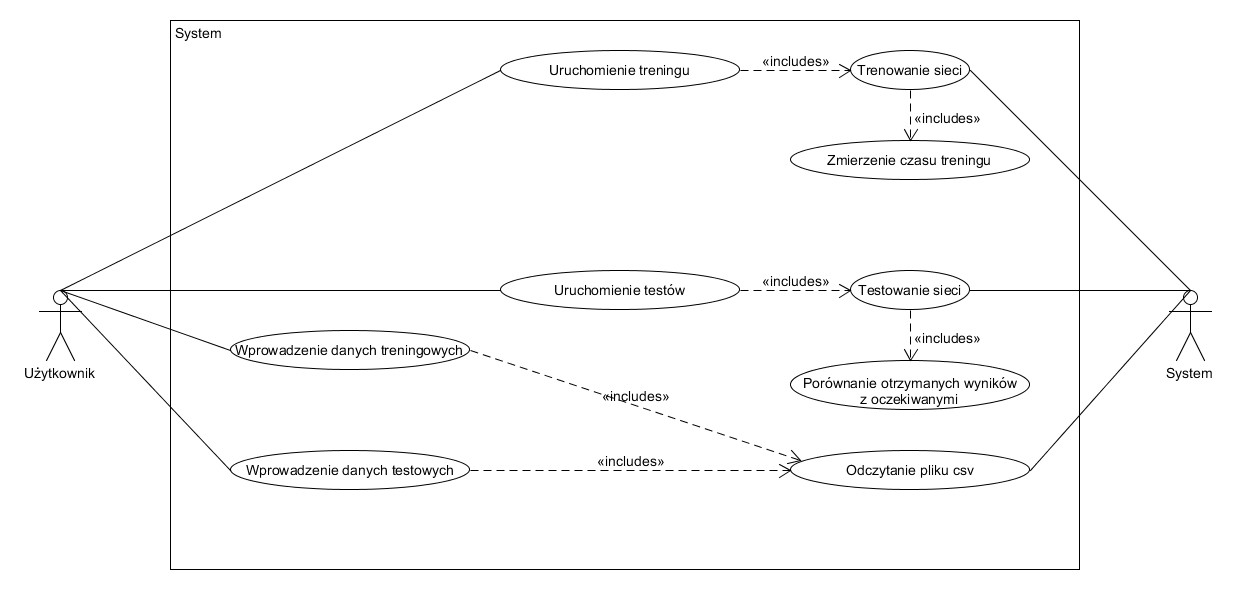
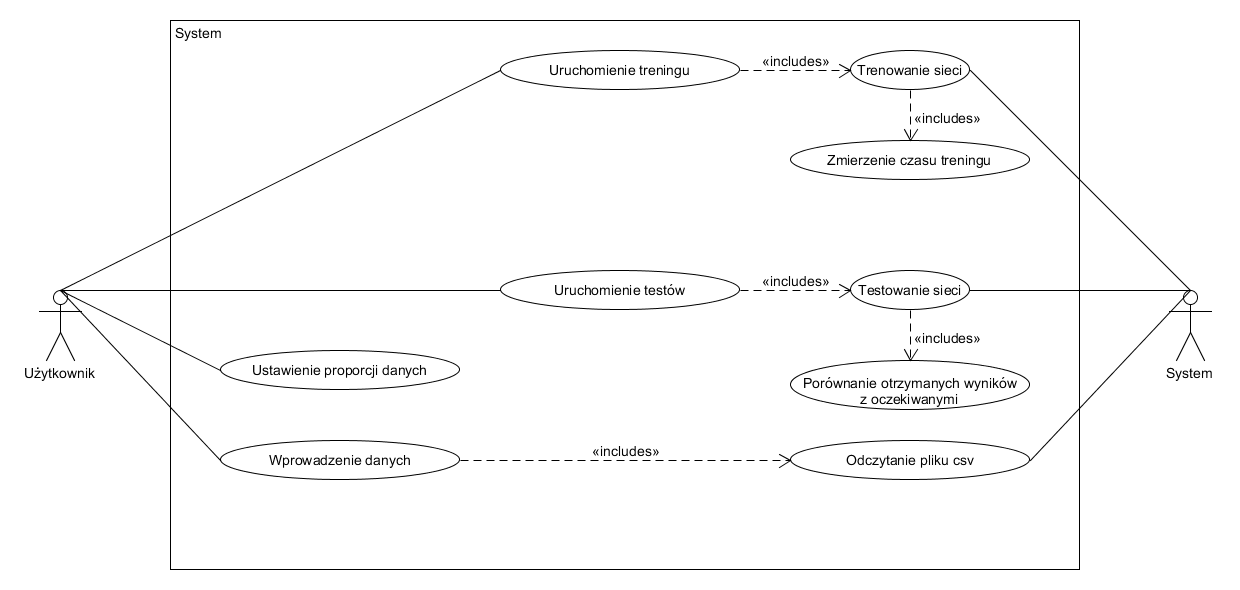
wymagania, use case

diff --git a/analiza.tex b/analiza.tex
@@ -1,6 +1,6 @@
 \documentclass{article}
 \usepackage[hidelinks]{hyperref}
-
+\usepackage{graphicx}
 \usepackage{polski}
 \usepackage[utf8]{inputenc}
 \usepackage{indentfirst}
@@ -20,6 +20,7 @@ Wydział Matematyki i Nauk Informacyjnych Politechniki Warszawskiej
 \clearpage
 \noindent
 \begin{table}[H]
+\hspace*{-1cm}
 \begin{tabular}{|l|l|l|r|}
 \hline
 \textbf{Data} & \textbf{Autor} & \textbf{Opis zmian} & \textbf{Wersja} \\
@@ -46,13 +47,48 @@ Wydział Matematyki i Nauk Informacyjnych Politechniki Warszawskiej
 \item Analiza jakości klasyfikacji i  czasu trwania treningu
 \item Interfejs graficzny
 \end{itemize}
+Poniższy diagram UML przedstawia zbiór przypadków użycia aplikacji z punktu widzenia użytkownika i systemu. Dotyczy obu aplikacji.
+\begin{figure}[H]
+\hspace*{-2cm}
+\includegraphics[width=16cm]{use_case.png}
+\caption{Diagram przypadków użycia}
+\end{figure}
+\clearpage
+Poniższa tabela zawiera opisy przypadków użycia dla użytkownika oraz odpowiedzi systemu.
+
+\begin{table}[H]
+\caption{Opisy przypadków użycia}
+\begin{tabular}{|p{3.4cm}|p{5cm}|p{4cm}|}
+\hline
+\textbf{Nazwa} & \textbf{Opis} & \textbf{Odpowiedź systemu} \\
+\hline
+Wprowadzenie danych & Wprowadzenie danych używanych do uczenia sieci & Odczytanie pliku csv \\ \hline
+Ustawienie proporcji danych & Ustawienie proporcji danych treningowych, testowych i zatwierdzających & Zapisanie wyboru \\ \hline
+Uruchomienie treningu & Uruchomienie treningu sieci schematem ELM & Trenowanie sieci i zmierzenie czasu treningu \\ \hline
+Uruchomienie testów & Uruchomienie testów sieci wytrenowanej wcześniej schematem ELM & Testowanie sieci i porównanie otrzymanych wyników z oczekiwanymi \\
+\hline
+\end{tabular}
+\end{table}
 \subsection{Wymagania niefunkcjonalne}
-\begin{itemize}
-\item Działanie na komputerach wydziałowych
-\item Działanie o kilka rzędów wielkości szybsze od tradycyjnych metod uczenia
-\item Przejrzysty interfejs graficzny
-\item Czytelne wykresy
-\end{itemize}
+W poniższej tabeli znajduje się lista wymagań niefunkcjonalnych.
+\begin{table}[H]
+\caption{Lista wymagań niefunkcjonalnych}
+\begin{tabular}{|l|l|p{9.4cm}|}
+\hline
+\textbf{Obszar} & \textbf{Numer} & \textbf{Opis} \\
+\hline
+Użyteczność & 1 & Aplikacje muszą działać na komputerach wydziałowych \\
+ & 2 & Aplikacje powinny mieć przejrzysty interfejs graficzny \\
+ & 3 & Wykresy wyświetlane w aplikacji powinny być czytelne \\
+\hline
+Wydajność & 4 & Działanie w oparciu o ELM powinno dawać o kilka rzędów wielkości szybszy czas uczenia niż tradycyjne metody \\
+\hline 
+Inne & 5 & Wykonanie aplikacji w językach Python i MATLAB \\
+& 6 & Dobrze udokumentowany kod \\
+\hline
+\end{tabular}
+\end{table}
+
 \subsection{Harmonogram projektu}
 \begin{table}[H]
 \begin{tabular}{|l|r|r|r|}
